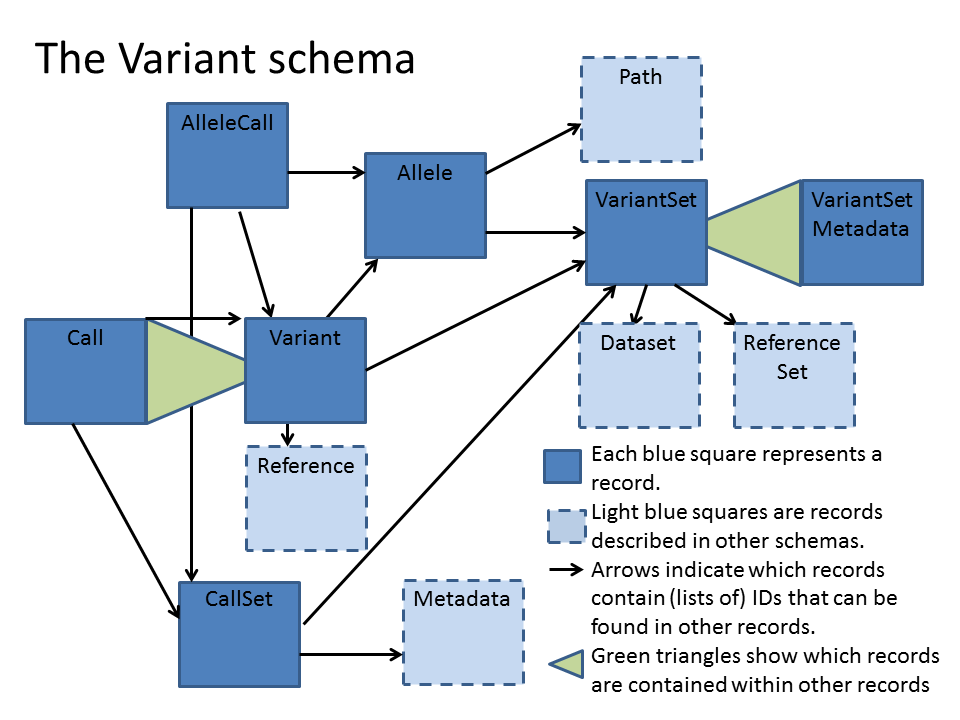
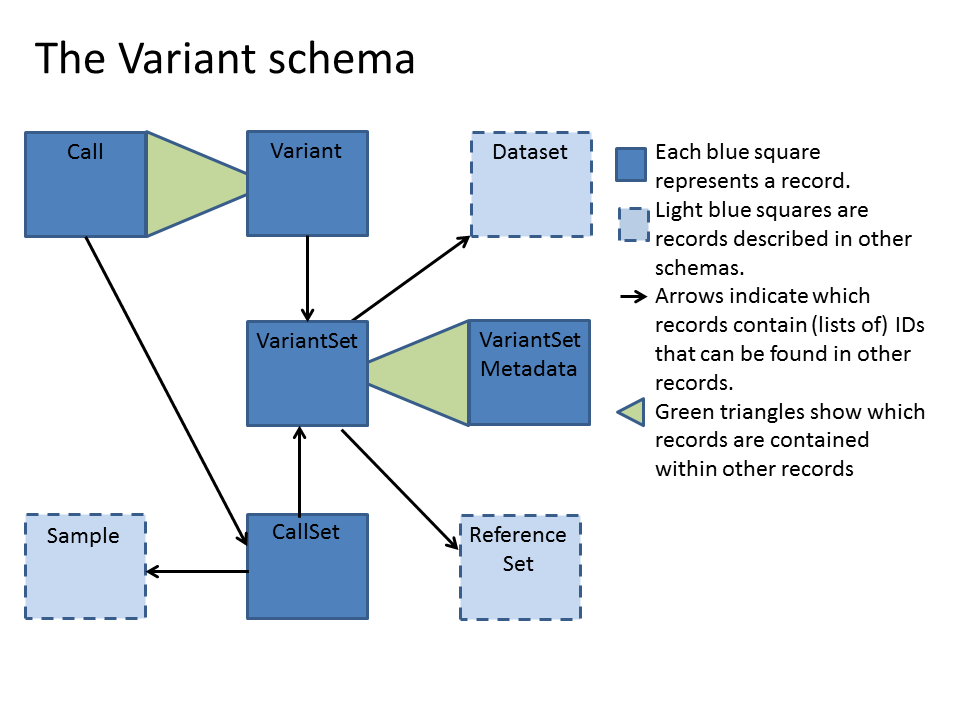
updated documentation and schema comments to match rebased master

diff --git a/doc/source/variants.rst b/doc/source/variants.rst
@@ -1,8 +1,11 @@
 .. _variants:
 
-***************
-Variants
-***************
+*******************
+The Variants schema
+*******************
+------------------
+Genetic Variants
+------------------
 
 Genetic variants are changes in the genome from one individual to the next. Such variants can be more or less common and may have effects on gene regulation
 or protein sequences. 
@@ -48,9 +51,12 @@ The Variant Schema
 While the Variant schema is based on VCF, it allows for more versatile interaction with the data. 
 Instead of sending whole chromosome or whole genome VCF files, the server can send information on specific
 genomic regions instead. And instead of getting all data for an experiment, it is possible to just get details for a single individual.
+
 `EXPLAIN: Will it also be possible to query on e.g. rsID?`
 
 The Variant schema consists of records that each describe part of the data:
+
+`FIXME: Allele and AlleleCall have been removed from Variants, so how does the user retrieve the VCF REF and ALT fields?`
 
 ========== ================================================== ==============
 Record     | Description                                      VCF equivalent
@@ -66,39 +72,43 @@ VariantSet | A collection of variants                         VCF file
 Metadata   | Information on the flags used                    VCF header
 ========== ================================================== ==============
 
+For a complete description of all Variant records, see :ref:`apireference`.
+
 
 `EXPLAIN: Where do the Qual, Info, Filter, and Format fields go?`
 
-This is what the Allele record looks like::
+This is what the VariantSet record looks like::
 
-  record Allele {
-  /**
-  The ID of this Allele.
-  */
+  record VariantSet {
+  /** The UUID of the variant set. */
   string id;
 
-  /** The ID of the variant set this allele belongs to. */
-  string variantSetId;
+  /** The ID of the dataset this variant set belongs to. */
+  string datasetId;
 
   /**
-  The ordered and oriented Segments of DNA that this Allele represents.
+  The ID of the reference set that describes the sequences used by the variants in this set.
   */
-  Path path;
+  string referenceSetId;
+
+  /**
+  The metadata associated with this variant set. This is equivalent to
+  the VCF header information not already presented in first class fields.
+  */
+  array<VariantSetMetadata> metadata = [];
   }
 
-So this record describes three variables: id, variantSetId, and path.
+So this record describes four variables: id, datasetId, referenceSetId, and VariantSetMetadata.
 
-The ``id`` is unique and can be used in other records. For instance, the Variant record has a variable named ``alleleIds``, which can be used to look up allele records.
+The ``id`` is unique and can be used in other records. For instance, the Variant record has a variable named ``VariantSetId``, which can be used to look up VariantSet records.
 
-``variantSetId`` points to the unique ID of a variantSet record.
+``datasetId`` points to the unique ID of a dataset record (defined in the metadata schema).
 
-``path`` is a special variable that is itself a whole record. This nesting of records is very common: For instance, if you request a VariantSet (for instance by its ``id``), one of its fields contains a list of VariantSetMetadata, which are described in a separate record.
-Path is used by records in other schemas, and is therefore described in the Common schema.
+``referenceSetId`` points to the unique ID of a reference record (defined in the reference schema).
 
-Below is an image of which records contain other records (such as ``path``), and which contain IDs that can be used to get information from other records (such as ``variantSetId``). The arrow points `from` the record that lists the ID `to` the record that can be identified by that ID.
+``VariantSetMetadata`` is a special variable that is itself a whole record, described elsewhere. In this case the record is described in the Variants schema but it's also possible to refer to records described in other schemas.
+
+Below is an image of which records contain other records (such as ``VariantSetMetaData``), and which contain IDs that can be used to get information from other records (such as ``variantSetId``). The arrow points `from` the record that lists the ID `to` the record that can be identified by that ID.
 
 .. image:: _static/variant_schema.png
  
-`NOTE from your friendly neighborhood doc author: To be honest, this maze of arrows makes little sense to me.  
-Why is there an arrow from Call to Variant?  
-Why do both AlleleCall and Variant contain Allele IDs?`

diff --git a/doc/source/introduction.rst b/doc/source/introduction.rst
@@ -37,6 +37,11 @@ The schemas are written in Avro Interactive Data Language (extension .avdl).
 Here, data means both the request ('send me RNASeq for gene X in sample Y') and the response (the BAM file). Apache Avro only sends data in
 :ref:`json` or Binary Avro format, so requests and responses must be converted into one of those formats.
 
+For more details on AVRO, see :ref:`avro`
+
+For more details on JSON, see :ref:`json`
+
+
 -----------------------
 How to use Avro schemas
 -----------------------
@@ -45,9 +50,6 @@ They define how the data is organized, and thereby give information on what can 
 The schemas can be used to create code in any programming language.
 
 
-+++++++++++++++++++
-A Python Example
-+++++++++++++++++++
 Here's the schema definition for Variants (with comments removed)::
 
   record Variant {
@@ -56,14 +58,13 @@ Here's the schema definition for Variants (with comments removed)::
     array<string> names = [];
     union { null, long } created = null;
     union { null, long } updated = null;
-    union { null, string } referenceName = null;
-    union { null, long } start = null;
-    union { null, long } end = null;
-    union { null, string } referenceBases = null;
-    union { null, array<string> } alternateBases = null;
-    union { null, array<string> } alleleIds;
+    string referenceName;
+    long start;
+    long end;
+    string referenceBases;
+    array<string> alternateBases = [];
     map<array<string>> info = {};
-    union { null, array<Call> } calls = null;
+    array<Call> calls = [];
   }
 
 This means that when you request a single variant by, for example, its ID, you get back a JSON file
@@ -80,32 +81,10 @@ Click for more :ref:`samplecode`.
 .. _api_modules:
 
 ----------------
-API modules
+GA4GH schemas
 ----------------
 
-.. todo::
-   * update modules
-
-Key components include: datasets, read group sets, reads, variants and call sets.
-
-For more details on all of these modules, see the :ref:`schemadetails`.
-
-++++++++++++++++
-Datasets
-++++++++++++++++
-
-A dataset is a logical grouping of genomic data and analysis associated with a project. 
-For example, a dataset might consist of aligned reads and variant calls from the 1000 Genomes project. 
-Data access permissions are set at the dataset level. A dataset can be public or private, meaning access may be restricted.
-
-++++++++++++++++
-Read group sets
-++++++++++++++++
-
-A read group set is a collection of reads, along with metadata about the sample, any processing that was performed, and the reference sequence. 
-In the simplest case, a read group set maps to a FASTQ or BAM file from a single sample, aligned with a particular alignment algorithm and parameters. 
-When a BAM file contains reads from multiple biological samples, the reads are split up into multiple read group sets, one per sample. 
-When multiple BAM files contain reads from the same sample, they must be merged into a single BAM file before import in order to create a single read group set.
+For more details on all of these modules, see the :ref:`apireference`.
 
 ++++++++++++++++
 Reads
@@ -124,8 +103,20 @@ Each variant identifies a position in a reference genome, a type of variant like
 insertion or deletion, the alternate allele, and the call sets that contain the variant.
 
 ++++++++++++++++
-Call sets
+References
 ++++++++++++++++
 
-A call set is a collection of variant calls, coming from a single sample using a particular variant calling algorithm and parameters.
+References are genome sequences. Other schemas contain reference IDs that point to records described here.
 
+++++++++++++++++
+Metadata
+++++++++++++++++
+
+Metadata are descriptions of datasets and experiments. Other schemas contain references to metadata.
+
+
+++++++++++++++++
+Common
+++++++++++++++++
+
+The Common schema describes records that occur in multiple other schemas, such as CigarUnit.

diff --git a/doc/source/apireference.rst b/doc/source/apireference.rst
@@ -1,4 +1,4 @@
-.. _schemadetails:
+.. _apireference:
 
 ****************
 API Reference
@@ -15,16 +15,18 @@ Resource types
 .. todo::
         Make links inside this list to descriptions lower on the page
 
-* common
-* metadata
-* methods
-* readmethods
 * reads
-* referencemethods
-* references
-* variantmethods
 * variants
+* references
+* metadata
+* common
+* readmethods
+* variantmethods
+* referencemethods
 
+
+.. todo::
+        Add descriptions for all schemas
 
 ++++++++++
 Variants
@@ -36,11 +38,6 @@ Each of the calls on a variant represent a determination of genotype with respec
 For example, a call might assign probability of 0.32 to the occurrence of a SNP named rs1234 in a sample named NA12345.
 A call belongs to a call set, which contains related calls typically from one sample. 
 
-(current variants.avdl text:)
-A Variant represents a change in DNA sequence relative to some reference.
-For example, a variant could represent a SNP or an insertion.
-Variants belong to a `VariantSet`.
-This is equivalent to a row in VCF.
 
 .. todo::
     The schema and table below should be autogenerated from the code instead of copied by hand :-)
@@ -54,15 +51,15 @@ Schema definition::
     array<string> names = [];
     union { null, long } created = null;
     union { null, long } updated = null;
-    union { null, string } referenceName = null;
-    union { null, long } start = null;
-    union { null, long } end = null;
-    union { null, string } referenceBases = null;
-    union { null, array<string> } alternateBases = null;
-    union { null, array<string> } alleleIds;
+    string referenceName;
+    long start;
+    long end;
+    string referenceBases;
+    array<string> alternateBases = [];
     map<array<string>> info = {};
-    union { null, array<Call> } calls = null;
+    array<Call> calls = [];
   }
+
 
 ============== ======= ===========
 Variable       Type    Description
@@ -86,7 +83,6 @@ end            integer | The end position (exclusive), resulting in [start, end)
                        | start + referenceBases.length
 referenceBases string  | The reference bases for this variant
 alternateBases list    | The bases that appear instead of the reference bases
-alleleIds      list    | The IDs of the reference and alternate Alleles for this Variant
 info           map     | Additional variant information
 calls          list    | The variant calls for this particular variant
 ============== ======= ===========

diff --git a/doc/source/reads.rst b/doc/source/reads.rst
@@ -1,8 +1,12 @@
 .. _reads:
 
-***************
+*****************
+The Reads Schema
+*****************
+
+------------
 Short Reads
-***************
+------------
 
 High throughput genome and transcriptome sequencing produces millions of short (50-200 nucleotide) sequences.
 These sequences are usually referred to as reads. Reads can be produced from:
@@ -54,9 +58,10 @@ ReadStats       | Counts of aligned and unaligned reads	     Samtools flagstats 
 LinearAlignment | Mapping of a read to a reference           One CIGAR string
 Program         | Software version and parameters that were  PN, CL tags in SAM header
                 | used to align reads to the genome
-Dataset	        | *ill defined* 
 Fragment        | *ill defined*
 =============== ============================================ ==================
+
+For a complete description of all Reads records, see :ref:`apireference`.
 
 Records can contain other records, for instance ReadStats is contained in ReadGroup and ReadGroupSet.
 Each record is made up of a number of fields that describe the data.

diff --git a/doc/source/index.rst b/doc/source/index.rst
@@ -14,12 +14,13 @@ Contents
     :maxdepth: 2
 
     introduction
-    starting
     variants
     reads
+    reference
+    metadata
+    common
+    apireference
     samplecode
-    schemadetails
-    explainapi
+    whatIsWebAPI
     json
     avro
-    demo

diff --git a/doc/source/samplecode.rst b/doc/source/samplecode.rst
@@ -1,8 +1,8 @@
 .. _samplecode:
 
-***************
-Code samples
-***************
+*******************
+Code samples (stub)
+*******************
 
 Useful tips from an online `article`_ about API development:
 

diff --git a/doc/source/reference.rst b/doc/source/reference.rst
@@ -1,0 +1,12 @@
+.. _reference:
+
+***************************
+The Reference schema (stub)
+***************************
+------------------
+Reference
+------------------
+
+..todo::
+   Add documentation
+

diff --git a/doc/source/json.rst b/doc/source/json.rst
@@ -1,8 +1,8 @@
 .. _json:
 
-*******************
-JSON	
-*******************
+**********************
+The JSON Format	(stub)
+**********************
 
 format described `here <http://json.org/example>`_
 

diff --git a/doc/source/metadata.rst b/doc/source/metadata.rst
@@ -1,0 +1,12 @@
+.. _metadata:
+
+***************************
+The Metadata schema (stub)
+***************************
+------------------
+Metadata
+------------------
+
+..todo::
+   Add documentation
+

diff --git a/doc/source/common.rst b/doc/source/common.rst
@@ -1,0 +1,12 @@
+.. _common:
+
+***************************
+The Common schema (stub)
+***************************
+------------------
+Common
+------------------
+
+..todo::
+   Add documentation
+
